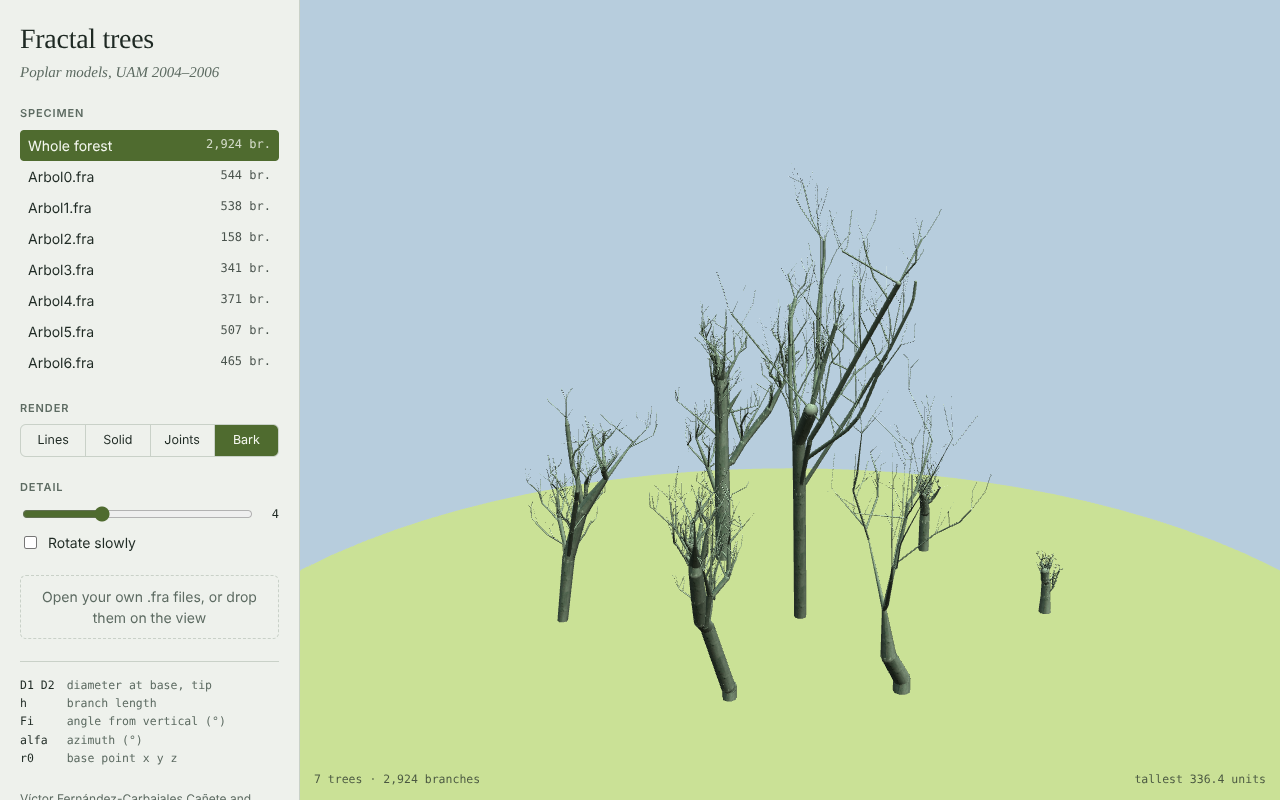
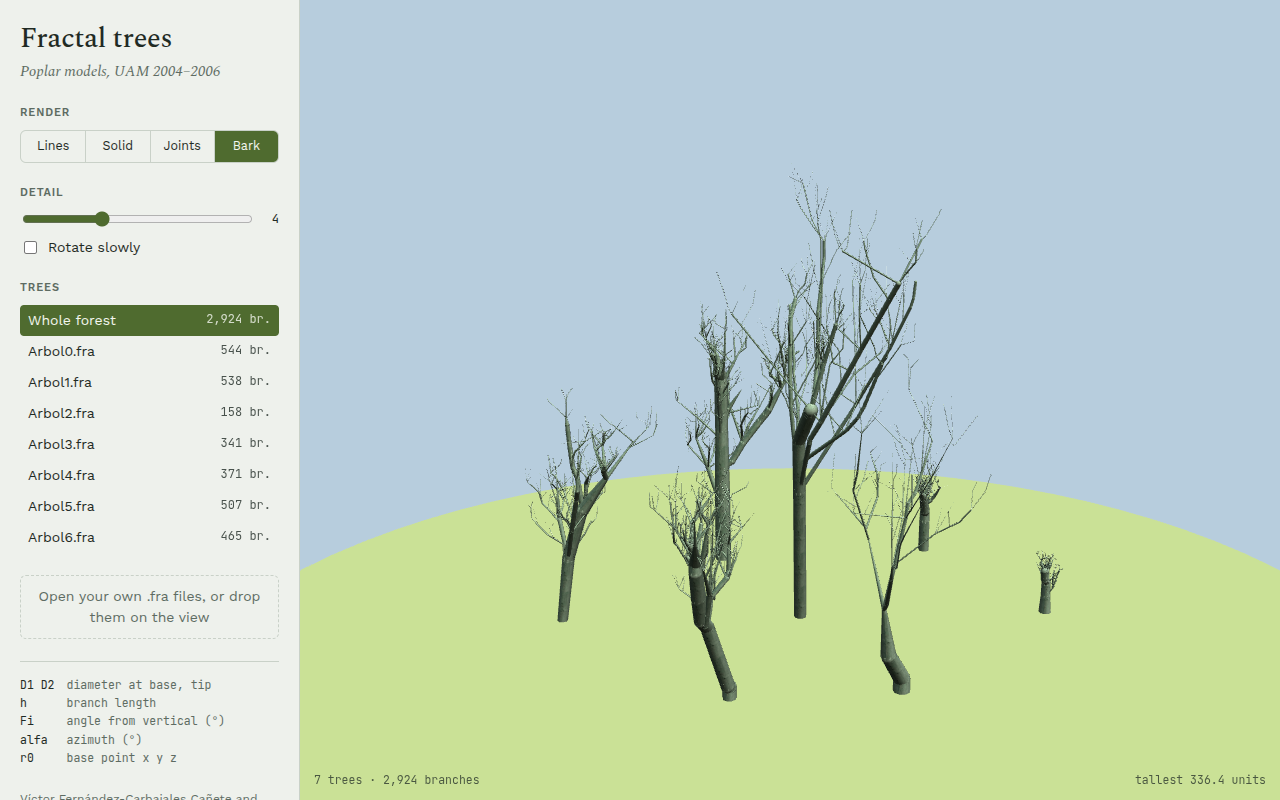
Web viewer: render controls first, list renamed "Trees"
Render mode, detail and rotation now sit above the tree list, so they
stay in reach with long forests. "Specimen" becomes "Trees". Standalone
pages and docs/web-viewer.png rebuilt.

diff --git a/visualizer/standalone/big-forest.html b/visualizer/standalone/big-forest.html
@@ -8,7 +8,7 @@
 <link rel="preconnect" href="https://fonts.gstatic.com" crossorigin>
 <link rel="stylesheet" href="https://fonts.googleapis.com/css2?family=Spectral:ital,wght@0,500;1,400&family=Work+Sans:wght@400;500;600&family=JetBrains+Mono:wght@400;500&display=swap">
 <style>
-/* Layout: full-height 3D stage with a narrow specimen-label panel (left on desktop, below on phones). */
+/* Layout: full-height 3D stage with a narrow control panel (left on desktop, below on phones). */
 :root {
   --paper: #eef1ec;      /* panel ground, faint green-grey */
   --ink: #1f2a24;        /* text */
@@ -135,11 +135,6 @@ input[type=range] { flex: 1; accent-color: var(--moss); min-width: 0; }
     </header>
 
     <div class="group">
-      <span class="label" id="trees-label">Specimen</span>
-      <ul class="trees" id="trees" aria-labelledby="trees-label"></ul>
-    </div>
-
-    <div class="group">
       <span class="label" id="mode-label">Render</span>
       <div class="seg" id="mode" role="group" aria-labelledby="mode-label">
         <button type="button" data-mode="0">Lines</button>
@@ -156,6 +151,11 @@ input[type=range] { flex: 1; accent-color: var(--moss); min-width: 0; }
         <span class="val" id="quality-val">4</span>
       </div>
       <label class="check"><input type="checkbox" id="spin"> Rotate slowly</label>
+    </div>
+
+    <div class="group">
+      <span class="label" id="trees-label">Trees</span>
+      <ul class="trees" id="trees" aria-labelledby="trees-label"></ul>
     </div>
 
     <label class="file">

diff --git a/visualizer/standalone/fractal-trees.html b/visualizer/standalone/fractal-trees.html
@@ -8,7 +8,7 @@
 <link rel="preconnect" href="https://fonts.gstatic.com" crossorigin>
 <link rel="stylesheet" href="https://fonts.googleapis.com/css2?family=Spectral:ital,wght@0,500;1,400&family=Work+Sans:wght@400;500;600&family=JetBrains+Mono:wght@400;500&display=swap">
 <style>
-/* Layout: full-height 3D stage with a narrow specimen-label panel (left on desktop, below on phones). */
+/* Layout: full-height 3D stage with a narrow control panel (left on desktop, below on phones). */
 :root {
   --paper: #eef1ec;      /* panel ground, faint green-grey */
   --ink: #1f2a24;        /* text */
@@ -135,11 +135,6 @@ input[type=range] { flex: 1; accent-color: var(--moss); min-width: 0; }
     </header>
 
     <div class="group">
-      <span class="label" id="trees-label">Specimen</span>
-      <ul class="trees" id="trees" aria-labelledby="trees-label"></ul>
-    </div>
-
-    <div class="group">
       <span class="label" id="mode-label">Render</span>
       <div class="seg" id="mode" role="group" aria-labelledby="mode-label">
         <button type="button" data-mode="0">Lines</button>
@@ -156,6 +151,11 @@ input[type=range] { flex: 1; accent-color: var(--moss); min-width: 0; }
         <span class="val" id="quality-val">4</span>
       </div>
       <label class="check"><input type="checkbox" id="spin"> Rotate slowly</label>
+    </div>
+
+    <div class="group">
+      <span class="label" id="trees-label">Trees</span>
+      <ul class="trees" id="trees" aria-labelledby="trees-label"></ul>
     </div>
 
     <label class="file">

diff --git a/visualizer/web/index.html b/visualizer/web/index.html
@@ -8,7 +8,7 @@
 <link rel="preconnect" href="https://fonts.gstatic.com" crossorigin>
 <link rel="stylesheet" href="https://fonts.googleapis.com/css2?family=Spectral:ital,wght@0,500;1,400&family=Work+Sans:wght@400;500;600&family=JetBrains+Mono:wght@400;500&display=swap">
 <style>
-/* Layout: full-height 3D stage with a narrow specimen-label panel (left on desktop, below on phones). */
+/* Layout: full-height 3D stage with a narrow control panel (left on desktop, below on phones). */
 :root {
   --paper: #eef1ec;      /* panel ground, faint green-grey */
   --ink: #1f2a24;        /* text */
@@ -135,11 +135,6 @@ input[type=range] { flex: 1; accent-color: var(--moss); min-width: 0; }
     </header>
 
     <div class="group">
-      <span class="label" id="trees-label">Specimen</span>
-      <ul class="trees" id="trees" aria-labelledby="trees-label"></ul>
-    </div>
-
-    <div class="group">
       <span class="label" id="mode-label">Render</span>
       <div class="seg" id="mode" role="group" aria-labelledby="mode-label">
         <button type="button" data-mode="0">Lines</button>
@@ -156,6 +151,11 @@ input[type=range] { flex: 1; accent-color: var(--moss); min-width: 0; }
         <span class="val" id="quality-val">4</span>
       </div>
       <label class="check"><input type="checkbox" id="spin"> Rotate slowly</label>
+    </div>
+
+    <div class="group">
+      <span class="label" id="trees-label">Trees</span>
+      <ul class="trees" id="trees" aria-labelledby="trees-label"></ul>
     </div>
 
     <label class="file">
